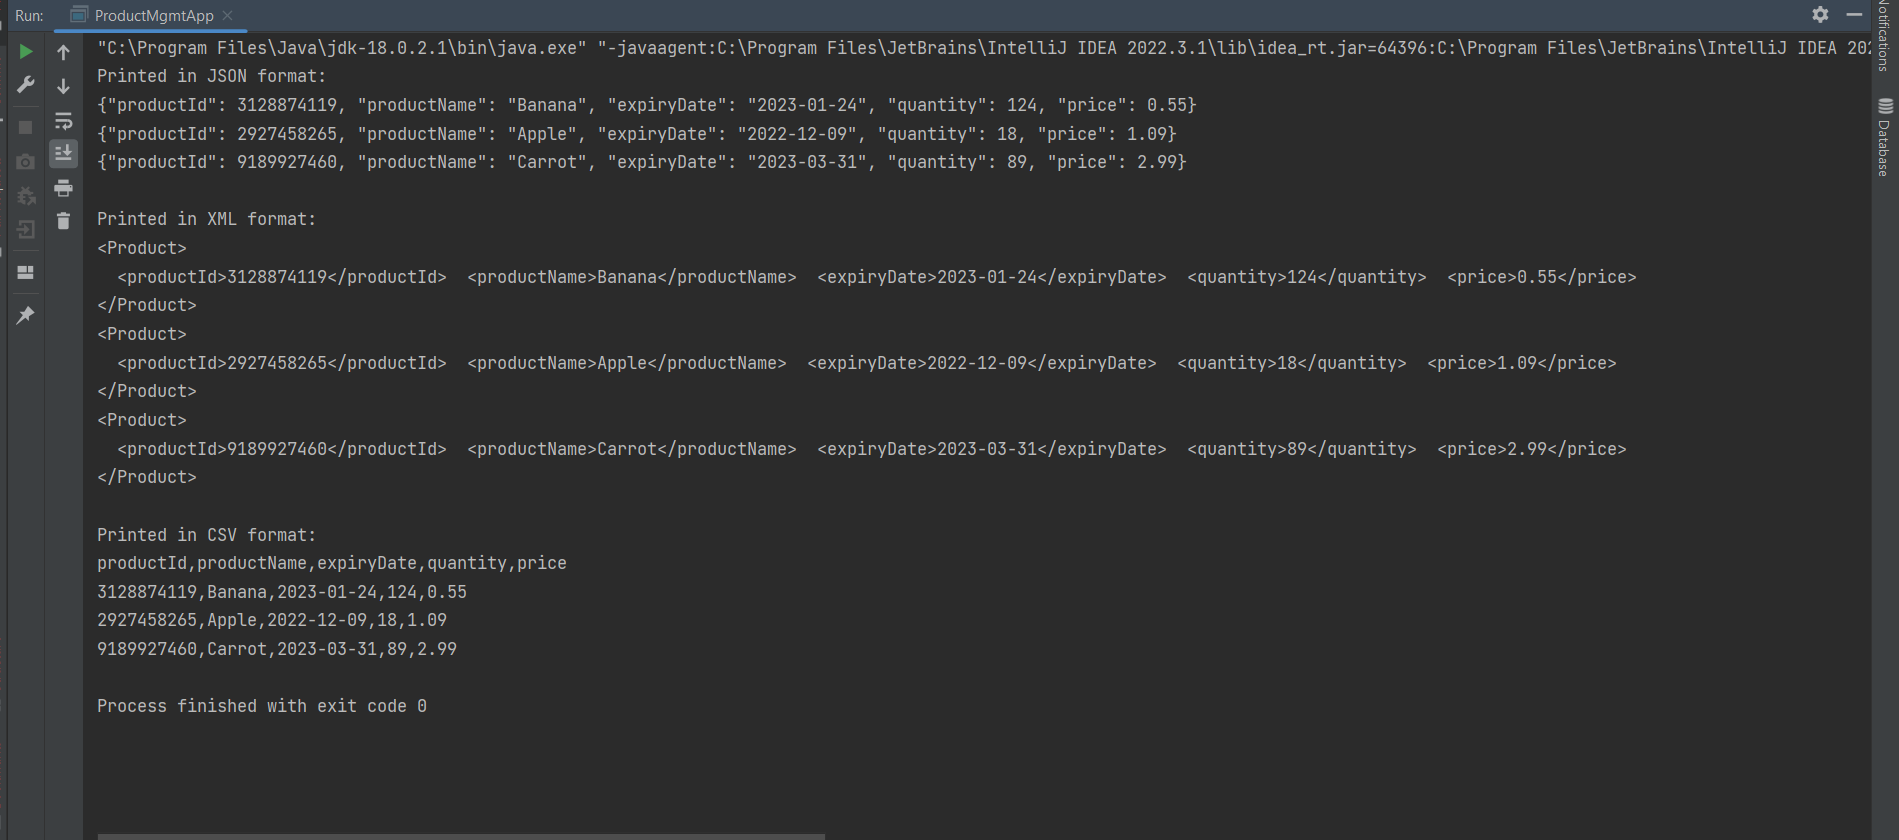
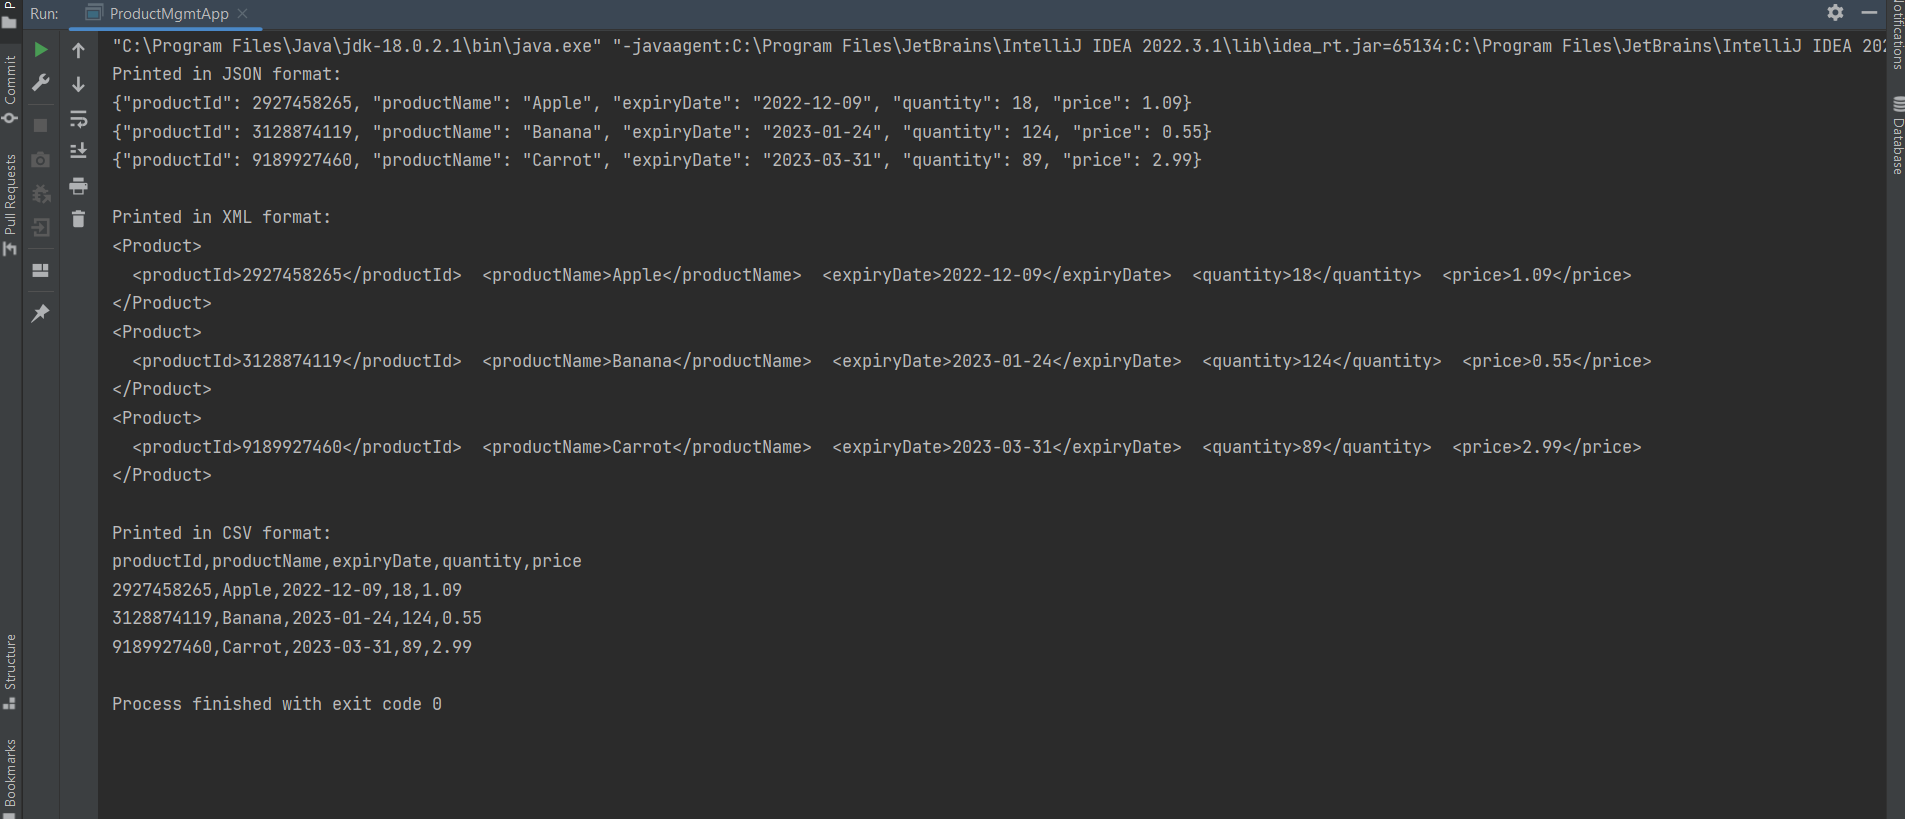
Sorted

diff --git a/src/edu/miu/cs/cs489appsd/lab1a/productmgmtapp/ProductMgmtApp.java b/src/edu/miu/cs/cs489appsd/lab1a/productmgmtapp/ProductMgmtApp.java
@@ -2,6 +2,9 @@ package edu.miu.cs.cs489appsd.lab1a.productmgmtapp;
 
 import edu.miu.cs.cs489appsd.lab1a.productmgmtapp.model.Product;
 
+import java.util.Arrays;
+import java.util.Comparator;
+
 public class ProductMgmtApp {
     public static void main(String[] args) {
         Product[] productsData = {
@@ -14,6 +17,7 @@ public class ProductMgmtApp {
     }
 
     public static void printProducts(Product[] products) {
+        Arrays.sort(products, Comparator.comparing(p -> p.getProductName()));
         // Print products in JSON format
         System.out.println("Printed in JSON format:");
         for (Product product : products) {

diff --git a/README.md b/README.md
@@ -1,1 +1,13 @@
 # ProductMgmtApp
+
+Task1
+![Lab1a-task1.png](Screenshot%2FLab1a-task1.png)
+
+Task2
+![Lab1a-task2.png](Screenshot%2FLab1a-task2.png)
+
+Task3
+![Lab1a-task3.png](Screenshot%2FLab1a-task3.png)
+
+Task4
+![Lab1a-task4.png](Screenshot%2FLab1a-task4.png)
